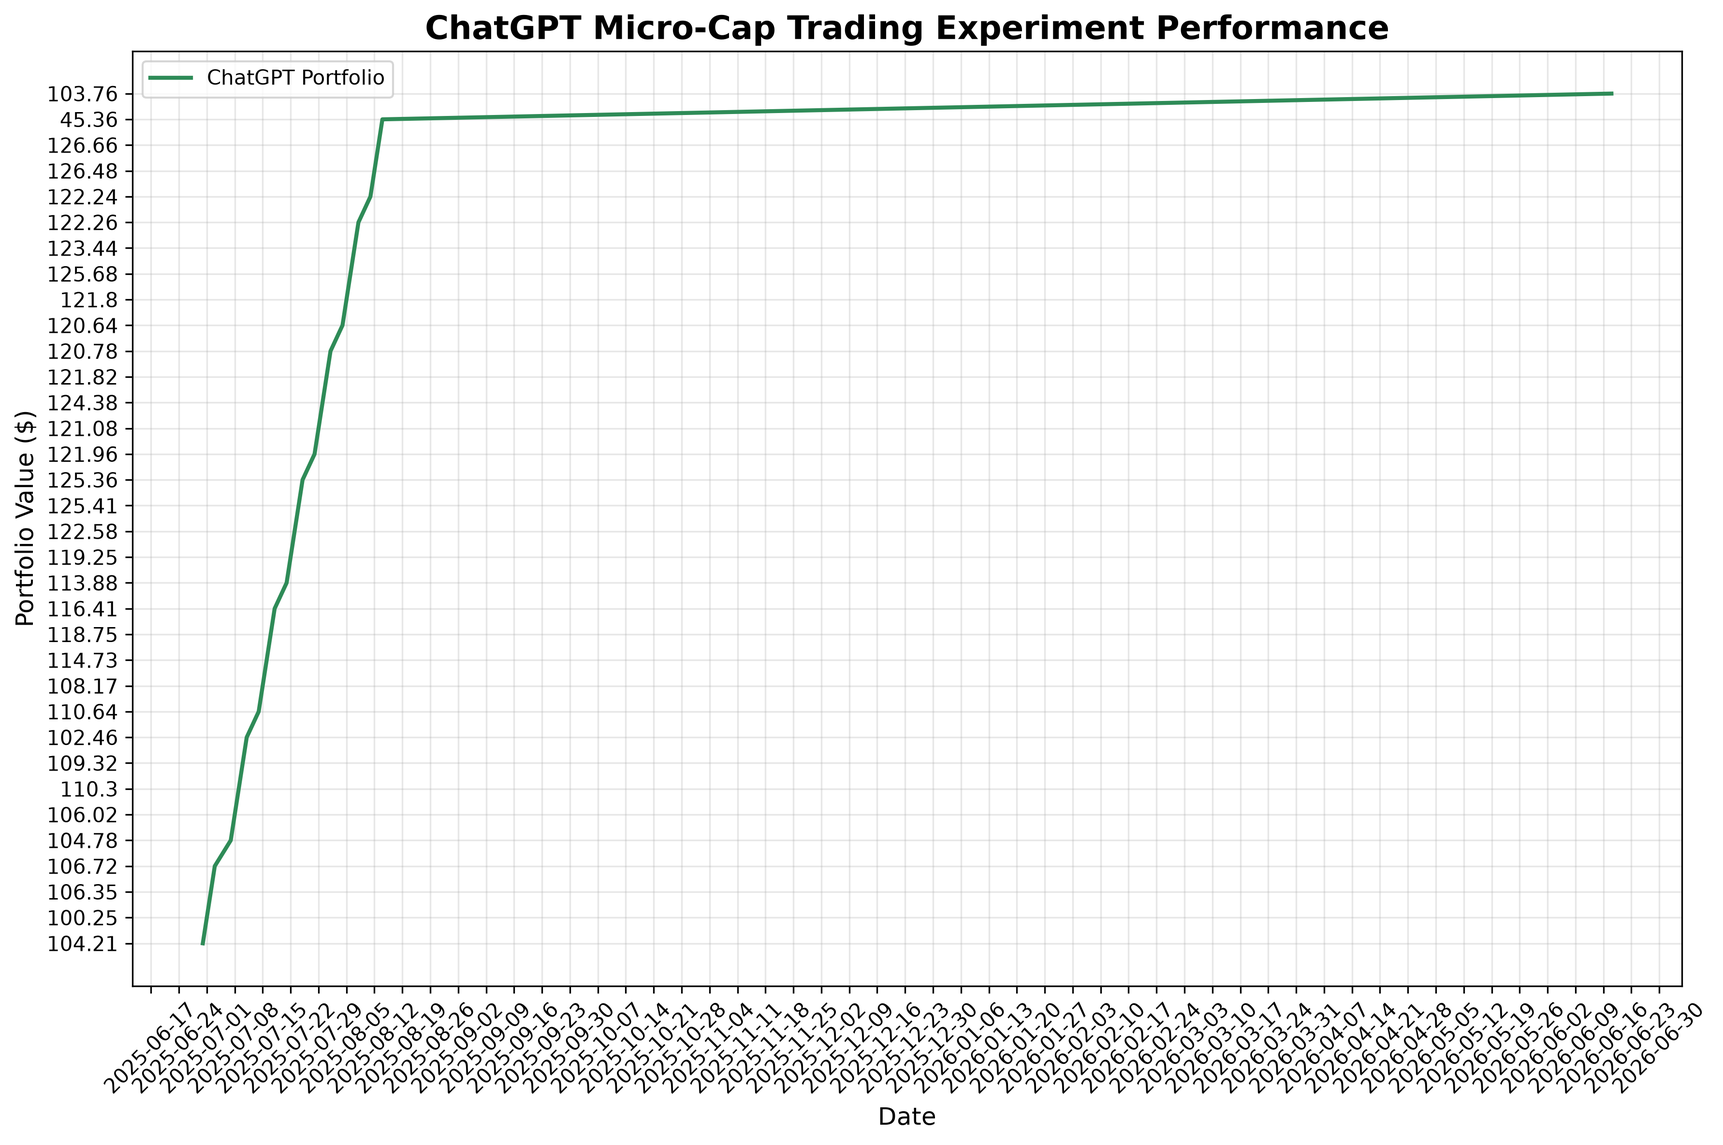
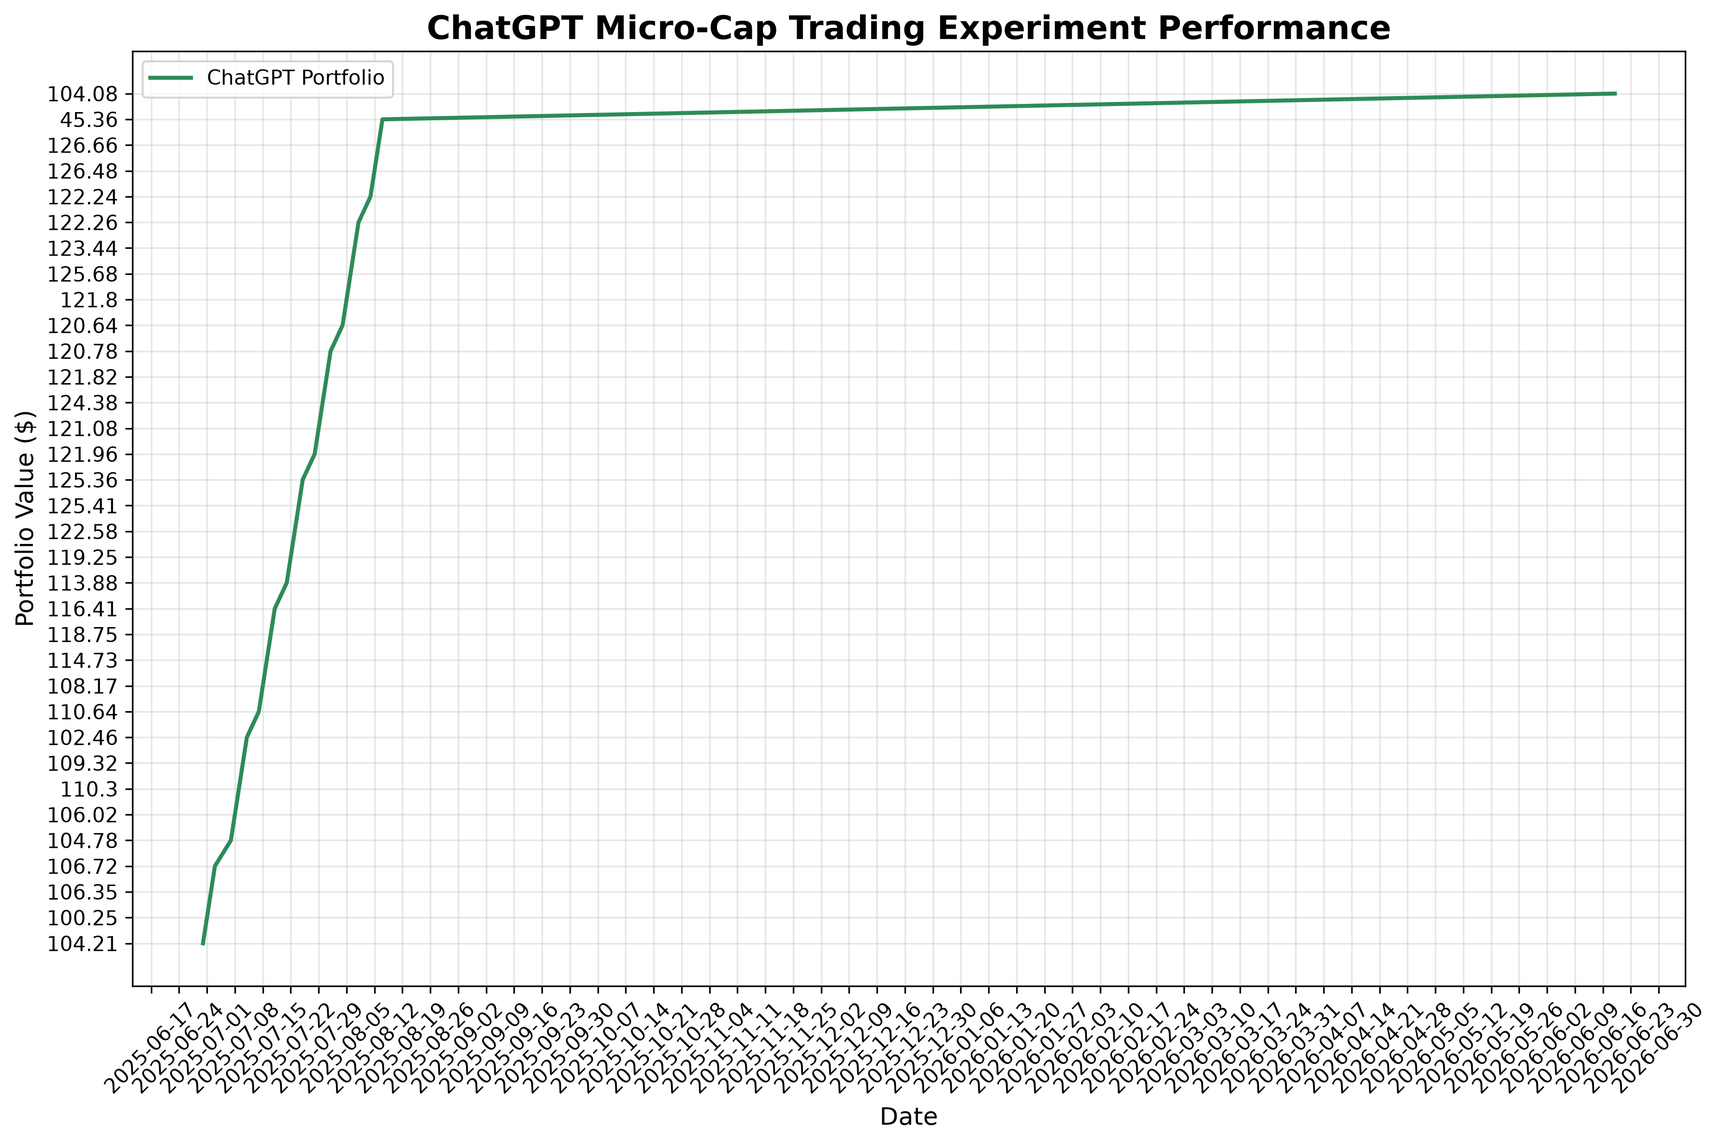
deploy: e15cad030d70fb3fbb51f9df6e22fa70c2f175c0

diff --git a/index.html b/index.html
@@ -105,7 +105,7 @@
                 <div class="stat-label">Total Trades</div>
             </div>
             <div class="stat-card">
-                <div class="stat-value" id="last-updated">2026-06-18</div>
+                <div class="stat-value" id="last-updated">2026-06-19</div>
                 <div class="stat-label">Last Updated</div>
             </div>
         </div>
@@ -160,8 +160,8 @@
     
     <script>
         // Portfolio data
-        const portfolioData = JSON.parse("[{&quot;Date&quot;: &quot;2025-08-11&quot;, &quot;Ticker&quot;: &quot;ABEO&quot;, &quot;Shares&quot;: 4.0, &quot;Buy Price&quot;: 5.77, &quot;Cost Basis&quot;: 23.08, &quot;Stop Loss&quot;: 4.9, &quot;Current Price&quot;: 6.28, &quot;Total Value&quot;: 25.12, &quot;PnL&quot;: 2.04, &quot;Action&quot;: &quot;HOLD&quot;, &quot;Cash Balance&quot;: NaN, &quot;Total Equity&quot;: NaN}, {&quot;Date&quot;: &quot;2025-08-11&quot;, &quot;Ticker&quot;: &quot;ACTU&quot;, &quot;Shares&quot;: 6.0, &quot;Buy Price&quot;: 5.75, &quot;Cost Basis&quot;: 34.5, &quot;Stop Loss&quot;: 4.89, &quot;Current Price&quot;: 8.01, &quot;Total Value&quot;: 48.06, &quot;PnL&quot;: 13.56, &quot;Action&quot;: &quot;HOLD&quot;, &quot;Cash Balance&quot;: NaN, &quot;Total Equity&quot;: NaN}, {&quot;Date&quot;: &quot;2025-08-11&quot;, &quot;Ticker&quot;: &quot;ESPR&quot;, &quot;Shares&quot;: 2.0, &quot;Buy Price&quot;: 1.91, &quot;Cost Basis&quot;: 3.82, &quot;Stop Loss&quot;: 1.6, &quot;Current Price&quot;: 1.85, &quot;Total Value&quot;: 3.7, &quot;PnL&quot;: -0.12, &quot;Action&quot;: &quot;HOLD&quot;, &quot;Cash Balance&quot;: NaN, &quot;Total Equity&quot;: NaN}, {&quot;Date&quot;: &quot;2025-08-11&quot;, &quot;Ticker&quot;: &quot;TOTAL&quot;, &quot;Shares&quot;: NaN, &quot;Buy Price&quot;: NaN, &quot;Cost Basis&quot;: NaN, &quot;Stop Loss&quot;: NaN, &quot;Current Price&quot;: NaN, &quot;Total Value&quot;: 76.88, &quot;PnL&quot;: 15.48, &quot;Action&quot;: NaN, &quot;Cash Balance&quot;: 45.36, &quot;Total Equity&quot;: &quot;122.24&quot;}, {&quot;Date&quot;: &quot;2025-08-12&quot;, &quot;Ticker&quot;: &quot;ABEO&quot;, &quot;Shares&quot;: 4.0, &quot;Buy Price&quot;: 5.77, &quot;Cost Basis&quot;: 23.08, &quot;Stop Loss&quot;: 4.9, &quot;Current Price&quot;: 6.38, &quot;Total Value&quot;: 25.52, &quot;PnL&quot;: 2.44, &quot;Action&quot;: &quot;HOLD&quot;, &quot;Cash Balance&quot;: NaN, &quot;Total Equity&quot;: NaN}, {&quot;Date&quot;: &quot;2025-08-12&quot;, &quot;Ticker&quot;: &quot;ACTU&quot;, &quot;Shares&quot;: 6.0, &quot;Buy Price&quot;: 5.75, &quot;Cost Basis&quot;: 34.5, &quot;Stop Loss&quot;: 4.89, &quot;Current Price&quot;: 8.67, &quot;Total Value&quot;: 52.02, &quot;PnL&quot;: 17.52, &quot;Action&quot;: &quot;HOLD&quot;, &quot;Cash Balance&quot;: NaN, &quot;Total Equity&quot;: NaN}, {&quot;Date&quot;: &quot;2025-08-12&quot;, &quot;Ticker&quot;: &quot;ESPR&quot;, &quot;Shares&quot;: 2.0, &quot;Buy Price&quot;: 1.91, &quot;Cost Basis&quot;: 3.82, &quot;Stop Loss&quot;: 1.6, &quot;Current Price&quot;: 1.79, &quot;Total Value&quot;: 3.58, &quot;PnL&quot;: -0.24, &quot;Action&quot;: &quot;HOLD&quot;, &quot;Cash Balance&quot;: NaN, &quot;Total Equity&quot;: NaN}, {&quot;Date&quot;: &quot;2025-08-12&quot;, &quot;Ticker&quot;: &quot;TOTAL&quot;, &quot;Shares&quot;: NaN, &quot;Buy Price&quot;: NaN, &quot;Cost Basis&quot;: NaN, &quot;Stop Loss&quot;: NaN, &quot;Current Price&quot;: NaN, &quot;Total Value&quot;: 81.12, &quot;PnL&quot;: 19.72, &quot;Action&quot;: NaN, &quot;Cash Balance&quot;: 45.36, &quot;Total Equity&quot;: &quot;126.48&quot;}, {&quot;Date&quot;: &quot;2025-08-13&quot;, &quot;Ticker&quot;: &quot;ABEO&quot;, &quot;Shares&quot;: 4.0, &quot;Buy Price&quot;: 5.77, &quot;Cost Basis&quot;: 23.08, &quot;Stop Loss&quot;: 4.9, &quot;Current Price&quot;: 6.56, &quot;Total Value&quot;: 26.24, &quot;PnL&quot;: 3.16, &quot;Action&quot;: &quot;HOLD&quot;, &quot;Cash Balance&quot;: NaN, &quot;Total Equity&quot;: NaN}, {&quot;Date&quot;: &quot;2025-08-13&quot;, &quot;Ticker&quot;: &quot;ACTU&quot;, &quot;Shares&quot;: 6.0, &quot;Buy Price&quot;: 5.75, &quot;Cost Basis&quot;: 34.5, &quot;Stop Loss&quot;: 4.89, &quot;Current Price&quot;: 8.53, &quot;Total Value&quot;: 51.18, &quot;PnL&quot;: 16.68, &quot;Action&quot;: &quot;HOLD&quot;, &quot;Cash Balance&quot;: NaN, &quot;Total Equity&quot;: NaN}, {&quot;Date&quot;: &quot;2025-08-13&quot;, &quot;Ticker&quot;: &quot;ESPR&quot;, &quot;Shares&quot;: 2.0, &quot;Buy Price&quot;: 1.91, &quot;Cost Basis&quot;: 3.82, &quot;Stop Loss&quot;: 1.6, &quot;Current Price&quot;: 1.94, &quot;Total Value&quot;: 3.88, &quot;PnL&quot;: 0.06, &quot;Action&quot;: &quot;HOLD&quot;, &quot;Cash Balance&quot;: NaN, &quot;Total Equity&quot;: NaN}, {&quot;Date&quot;: &quot;2025-08-13&quot;, &quot;Ticker&quot;: &quot;TOTAL&quot;, &quot;Shares&quot;: NaN, &quot;Buy Price&quot;: NaN, &quot;Cost Basis&quot;: NaN, &quot;Stop Loss&quot;: NaN, &quot;Current Price&quot;: NaN, &quot;Total Value&quot;: 81.3, &quot;PnL&quot;: 19.9, &quot;Action&quot;: NaN, &quot;Cash Balance&quot;: 45.36, &quot;Total Equity&quot;: &quot;126.66&quot;}, {&quot;Date&quot;: &quot;2025-08-14&quot;, &quot;Ticker&quot;: &quot;ABEO&quot;, &quot;Shares&quot;: 4.0, &quot;Buy Price&quot;: 5.77, &quot;Cost Basis&quot;: 23.08, &quot;Stop Loss&quot;: 4.9, &quot;Current Price&quot;: NaN, &quot;Total Value&quot;: NaN, &quot;PnL&quot;: NaN, &quot;Action&quot;: &quot;NO DATA&quot;, &quot;Cash Balance&quot;: NaN, &quot;Total Equity&quot;: NaN}, {&quot;Date&quot;: &quot;2025-08-14&quot;, &quot;Ticker&quot;: &quot;ACTU&quot;, &quot;Shares&quot;: 6.0, &quot;Buy Price&quot;: 5.75, &quot;Cost Basis&quot;: 34.5, &quot;Stop Loss&quot;: 4.89, &quot;Current Price&quot;: NaN, &quot;Total Value&quot;: NaN, &quot;PnL&quot;: NaN, &quot;Action&quot;: &quot;NO DATA&quot;, &quot;Cash Balance&quot;: NaN, &quot;Total Equity&quot;: NaN}, {&quot;Date&quot;: &quot;2025-08-14&quot;, &quot;Ticker&quot;: &quot;ESPR&quot;, &quot;Shares&quot;: 2.0, &quot;Buy Price&quot;: 1.91, &quot;Cost Basis&quot;: 3.82, &quot;Stop Loss&quot;: 1.6, &quot;Current Price&quot;: NaN, &quot;Total Value&quot;: NaN, &quot;PnL&quot;: NaN, &quot;Action&quot;: &quot;NO DATA&quot;, &quot;Cash Balance&quot;: NaN, &quot;Total Equity&quot;: NaN}, {&quot;Date&quot;: &quot;2025-08-14&quot;, &quot;Ticker&quot;: &quot;TOTAL&quot;, &quot;Shares&quot;: NaN, &quot;Buy Price&quot;: NaN, &quot;Cost Basis&quot;: NaN, &quot;Stop Loss&quot;: NaN, &quot;Current Price&quot;: NaN, &quot;Total Value&quot;: 0.0, &quot;PnL&quot;: 0.0, &quot;Action&quot;: NaN, &quot;Cash Balance&quot;: 45.36, &quot;Total Equity&quot;: &quot;45.36&quot;}, {&quot;Date&quot;: &quot;2026-06-18&quot;, &quot;Ticker&quot;: &quot;ABEO&quot;, &quot;Shares&quot;: 4.0, &quot;Buy Price&quot;: 5.77, &quot;Cost Basis&quot;: 23.08, &quot;Stop Loss&quot;: 4.9, &quot;Current Price&quot;: 5.68, &quot;Total Value&quot;: 22.72, &quot;PnL&quot;: -0.36, &quot;Action&quot;: &quot;HOLD&quot;, &quot;Cash Balance&quot;: NaN, &quot;Total Equity&quot;: NaN}, {&quot;Date&quot;: &quot;2026-06-18&quot;, &quot;Ticker&quot;: &quot;ACTU&quot;, &quot;Shares&quot;: 6.0, &quot;Buy Price&quot;: 5.75, &quot;Cost Basis&quot;: 34.5, &quot;Stop Loss&quot;: 4.89, &quot;Current Price&quot;: 4.89, &quot;Total Value&quot;: 29.34, &quot;PnL&quot;: -5.16, &quot;Action&quot;: &quot;SELL - Stop Loss Triggered&quot;, &quot;Cash Balance&quot;: NaN, &quot;Total Equity&quot;: NaN}, {&quot;Date&quot;: &quot;2026-06-18&quot;, &quot;Ticker&quot;: &quot;ESPR&quot;, &quot;Shares&quot;: 2.0, &quot;Buy Price&quot;: 1.91, &quot;Cost Basis&quot;: 3.82, &quot;Stop Loss&quot;: 1.6, &quot;Current Price&quot;: 3.17, &quot;Total Value&quot;: 6.34, &quot;PnL&quot;: 2.52, &quot;Action&quot;: &quot;HOLD&quot;, &quot;Cash Balance&quot;: NaN, &quot;Total Equity&quot;: NaN}, {&quot;Date&quot;: &quot;2026-06-18&quot;, &quot;Ticker&quot;: &quot;TOTAL&quot;, &quot;Shares&quot;: NaN, &quot;Buy Price&quot;: NaN, &quot;Cost Basis&quot;: NaN, &quot;Stop Loss&quot;: NaN, &quot;Current Price&quot;: NaN, &quot;Total Value&quot;: 29.06, &quot;PnL&quot;: 2.16, &quot;Action&quot;: NaN, &quot;Cash Balance&quot;: 74.7, &quot;Total Equity&quot;: &quot;103.76&quot;}]");
-        const tradeData = JSON.parse("[{&quot;Date&quot;: &quot;2025-07-08&quot;, &quot;Ticker&quot;: &quot;IINN&quot;, &quot;Shares Bought&quot;: 20.0, &quot;Buy Price&quot;: 1.5, &quot;Cost Basis&quot;: 30.0, &quot;PnL&quot;: 0.0, &quot;Reason&quot;: &quot;MANUAL BUY - New position&quot;, &quot;Shares Sold&quot;: NaN, &quot;Sell Price&quot;: NaN}, {&quot;Date&quot;: &quot;2025-07-21&quot;, &quot;Ticker&quot;: &quot;CADL&quot;, &quot;Shares Bought&quot;: NaN, &quot;Buy Price&quot;: NaN, &quot;Cost Basis&quot;: 25.2, &quot;PnL&quot;: 8.5, &quot;Reason&quot;: &quot;MANUAL SELL - GAIN CAPITAL FOR ACTU&quot;, &quot;Shares Sold&quot;: 5.0, &quot;Sell Price&quot;: 6.59}, {&quot;Date&quot;: &quot;2025-07-21&quot;, &quot;Ticker&quot;: &quot;ACTU&quot;, &quot;Shares Bought&quot;: 6.0, &quot;Buy Price&quot;: 5.75, &quot;Cost Basis&quot;: 34.5, &quot;PnL&quot;: 0.0, &quot;Reason&quot;: &quot;MANUAL BUY - New position&quot;, &quot;Shares Sold&quot;: NaN, &quot;Sell Price&quot;: NaN}, {&quot;Date&quot;: &quot;2025-07-28&quot;, &quot;Ticker&quot;: &quot;IINN&quot;, &quot;Shares Bought&quot;: NaN, &quot;Buy Price&quot;: NaN, &quot;Cost Basis&quot;: 9.0, &quot;PnL&quot;: -0.5400000000000009, &quot;Reason&quot;: &quot;MANUAL SELL - POSITION REDUCTION&quot;, &quot;Shares Sold&quot;: 6.0, &quot;Sell Price&quot;: 1.41}, {&quot;Date&quot;: &quot;2025-07-29&quot;, &quot;Ticker&quot;: &quot;AZTR&quot;, &quot;Shares Bought&quot;: NaN, &quot;Buy Price&quot;: NaN, &quot;Cost Basis&quot;: 13.75, &quot;PnL&quot;: -2.75, &quot;Reason&quot;: &quot;MANUAL SELL - DILUTION RISK&quot;, &quot;Shares Sold&quot;: 55.0, &quot;Sell Price&quot;: 0.2}, {&quot;Date&quot;: &quot;2025-08-01&quot;, &quot;Ticker&quot;: &quot;IINN&quot;, &quot;Shares Bought&quot;: 2.0, &quot;Buy Price&quot;: 1.74, &quot;Cost Basis&quot;: 3.48, &quot;PnL&quot;: 0.0, &quot;Reason&quot;: &quot;MANUAL BUY - New position&quot;, &quot;Shares Sold&quot;: NaN, &quot;Sell Price&quot;: NaN}, {&quot;Date&quot;: &quot;2025-08-01&quot;, &quot;Ticker&quot;: &quot;ABEO&quot;, &quot;Shares Bought&quot;: NaN, &quot;Buy Price&quot;: NaN, &quot;Cost Basis&quot;: 11.54, &quot;PnL&quot;: 1.200000000000001, &quot;Reason&quot;: &quot;MANUAL SELL - TRIM AFTER SUPPORT LOSS&quot;, &quot;Shares Sold&quot;: 2.0, &quot;Sell Price&quot;: 6.37}, {&quot;Date&quot;: &quot;2025-08-07&quot;, &quot;Ticker&quot;: &quot;ESPR&quot;, &quot;Shares Bought&quot;: 2.0, &quot;Buy Price&quot;: 1.91, &quot;Cost Basis&quot;: 3.82, &quot;PnL&quot;: 0.0, &quot;Reason&quot;: &quot;MANUAL BUY - New position&quot;, &quot;Shares Sold&quot;: NaN, &quot;Sell Price&quot;: NaN}, {&quot;Date&quot;: &quot;2025-08-08&quot;, &quot;Ticker&quot;: &quot;IINN&quot;, &quot;Shares Bought&quot;: NaN, &quot;Buy Price&quot;: NaN, &quot;Cost Basis&quot;: 1.5, &quot;PnL&quot;: -6.4, &quot;Reason&quot;: &quot;AUTOMATED SELL - STOPLOSS TRIGGERED&quot;, &quot;Shares Sold&quot;: 16.0, &quot;Sell Price&quot;: 1.1}, {&quot;Date&quot;: &quot;2026-06-18&quot;, &quot;Ticker&quot;: &quot;ACTU&quot;, &quot;Shares Bought&quot;: NaN, &quot;Buy Price&quot;: NaN, &quot;Cost Basis&quot;: 5.75, &quot;PnL&quot;: -5.16, &quot;Reason&quot;: &quot;AUTOMATED SELL - STOPLOSS TRIGGERED&quot;, &quot;Shares Sold&quot;: 6.0, &quot;Sell Price&quot;: 4.89}]");
+        const portfolioData = JSON.parse("[{&quot;Date&quot;: &quot;2025-08-11&quot;, &quot;Ticker&quot;: &quot;ABEO&quot;, &quot;Shares&quot;: 4.0, &quot;Buy Price&quot;: 5.77, &quot;Cost Basis&quot;: 23.08, &quot;Stop Loss&quot;: 4.9, &quot;Current Price&quot;: 6.28, &quot;Total Value&quot;: 25.12, &quot;PnL&quot;: 2.04, &quot;Action&quot;: &quot;HOLD&quot;, &quot;Cash Balance&quot;: NaN, &quot;Total Equity&quot;: NaN}, {&quot;Date&quot;: &quot;2025-08-11&quot;, &quot;Ticker&quot;: &quot;ACTU&quot;, &quot;Shares&quot;: 6.0, &quot;Buy Price&quot;: 5.75, &quot;Cost Basis&quot;: 34.5, &quot;Stop Loss&quot;: 4.89, &quot;Current Price&quot;: 8.01, &quot;Total Value&quot;: 48.06, &quot;PnL&quot;: 13.56, &quot;Action&quot;: &quot;HOLD&quot;, &quot;Cash Balance&quot;: NaN, &quot;Total Equity&quot;: NaN}, {&quot;Date&quot;: &quot;2025-08-11&quot;, &quot;Ticker&quot;: &quot;ESPR&quot;, &quot;Shares&quot;: 2.0, &quot;Buy Price&quot;: 1.91, &quot;Cost Basis&quot;: 3.82, &quot;Stop Loss&quot;: 1.6, &quot;Current Price&quot;: 1.85, &quot;Total Value&quot;: 3.7, &quot;PnL&quot;: -0.12, &quot;Action&quot;: &quot;HOLD&quot;, &quot;Cash Balance&quot;: NaN, &quot;Total Equity&quot;: NaN}, {&quot;Date&quot;: &quot;2025-08-11&quot;, &quot;Ticker&quot;: &quot;TOTAL&quot;, &quot;Shares&quot;: NaN, &quot;Buy Price&quot;: NaN, &quot;Cost Basis&quot;: NaN, &quot;Stop Loss&quot;: NaN, &quot;Current Price&quot;: NaN, &quot;Total Value&quot;: 76.88, &quot;PnL&quot;: 15.48, &quot;Action&quot;: NaN, &quot;Cash Balance&quot;: 45.36, &quot;Total Equity&quot;: &quot;122.24&quot;}, {&quot;Date&quot;: &quot;2025-08-12&quot;, &quot;Ticker&quot;: &quot;ABEO&quot;, &quot;Shares&quot;: 4.0, &quot;Buy Price&quot;: 5.77, &quot;Cost Basis&quot;: 23.08, &quot;Stop Loss&quot;: 4.9, &quot;Current Price&quot;: 6.38, &quot;Total Value&quot;: 25.52, &quot;PnL&quot;: 2.44, &quot;Action&quot;: &quot;HOLD&quot;, &quot;Cash Balance&quot;: NaN, &quot;Total Equity&quot;: NaN}, {&quot;Date&quot;: &quot;2025-08-12&quot;, &quot;Ticker&quot;: &quot;ACTU&quot;, &quot;Shares&quot;: 6.0, &quot;Buy Price&quot;: 5.75, &quot;Cost Basis&quot;: 34.5, &quot;Stop Loss&quot;: 4.89, &quot;Current Price&quot;: 8.67, &quot;Total Value&quot;: 52.02, &quot;PnL&quot;: 17.52, &quot;Action&quot;: &quot;HOLD&quot;, &quot;Cash Balance&quot;: NaN, &quot;Total Equity&quot;: NaN}, {&quot;Date&quot;: &quot;2025-08-12&quot;, &quot;Ticker&quot;: &quot;ESPR&quot;, &quot;Shares&quot;: 2.0, &quot;Buy Price&quot;: 1.91, &quot;Cost Basis&quot;: 3.82, &quot;Stop Loss&quot;: 1.6, &quot;Current Price&quot;: 1.79, &quot;Total Value&quot;: 3.58, &quot;PnL&quot;: -0.24, &quot;Action&quot;: &quot;HOLD&quot;, &quot;Cash Balance&quot;: NaN, &quot;Total Equity&quot;: NaN}, {&quot;Date&quot;: &quot;2025-08-12&quot;, &quot;Ticker&quot;: &quot;TOTAL&quot;, &quot;Shares&quot;: NaN, &quot;Buy Price&quot;: NaN, &quot;Cost Basis&quot;: NaN, &quot;Stop Loss&quot;: NaN, &quot;Current Price&quot;: NaN, &quot;Total Value&quot;: 81.12, &quot;PnL&quot;: 19.72, &quot;Action&quot;: NaN, &quot;Cash Balance&quot;: 45.36, &quot;Total Equity&quot;: &quot;126.48&quot;}, {&quot;Date&quot;: &quot;2025-08-13&quot;, &quot;Ticker&quot;: &quot;ABEO&quot;, &quot;Shares&quot;: 4.0, &quot;Buy Price&quot;: 5.77, &quot;Cost Basis&quot;: 23.08, &quot;Stop Loss&quot;: 4.9, &quot;Current Price&quot;: 6.56, &quot;Total Value&quot;: 26.24, &quot;PnL&quot;: 3.16, &quot;Action&quot;: &quot;HOLD&quot;, &quot;Cash Balance&quot;: NaN, &quot;Total Equity&quot;: NaN}, {&quot;Date&quot;: &quot;2025-08-13&quot;, &quot;Ticker&quot;: &quot;ACTU&quot;, &quot;Shares&quot;: 6.0, &quot;Buy Price&quot;: 5.75, &quot;Cost Basis&quot;: 34.5, &quot;Stop Loss&quot;: 4.89, &quot;Current Price&quot;: 8.53, &quot;Total Value&quot;: 51.18, &quot;PnL&quot;: 16.68, &quot;Action&quot;: &quot;HOLD&quot;, &quot;Cash Balance&quot;: NaN, &quot;Total Equity&quot;: NaN}, {&quot;Date&quot;: &quot;2025-08-13&quot;, &quot;Ticker&quot;: &quot;ESPR&quot;, &quot;Shares&quot;: 2.0, &quot;Buy Price&quot;: 1.91, &quot;Cost Basis&quot;: 3.82, &quot;Stop Loss&quot;: 1.6, &quot;Current Price&quot;: 1.94, &quot;Total Value&quot;: 3.88, &quot;PnL&quot;: 0.06, &quot;Action&quot;: &quot;HOLD&quot;, &quot;Cash Balance&quot;: NaN, &quot;Total Equity&quot;: NaN}, {&quot;Date&quot;: &quot;2025-08-13&quot;, &quot;Ticker&quot;: &quot;TOTAL&quot;, &quot;Shares&quot;: NaN, &quot;Buy Price&quot;: NaN, &quot;Cost Basis&quot;: NaN, &quot;Stop Loss&quot;: NaN, &quot;Current Price&quot;: NaN, &quot;Total Value&quot;: 81.3, &quot;PnL&quot;: 19.9, &quot;Action&quot;: NaN, &quot;Cash Balance&quot;: 45.36, &quot;Total Equity&quot;: &quot;126.66&quot;}, {&quot;Date&quot;: &quot;2025-08-14&quot;, &quot;Ticker&quot;: &quot;ABEO&quot;, &quot;Shares&quot;: 4.0, &quot;Buy Price&quot;: 5.77, &quot;Cost Basis&quot;: 23.08, &quot;Stop Loss&quot;: 4.9, &quot;Current Price&quot;: NaN, &quot;Total Value&quot;: NaN, &quot;PnL&quot;: NaN, &quot;Action&quot;: &quot;NO DATA&quot;, &quot;Cash Balance&quot;: NaN, &quot;Total Equity&quot;: NaN}, {&quot;Date&quot;: &quot;2025-08-14&quot;, &quot;Ticker&quot;: &quot;ACTU&quot;, &quot;Shares&quot;: 6.0, &quot;Buy Price&quot;: 5.75, &quot;Cost Basis&quot;: 34.5, &quot;Stop Loss&quot;: 4.89, &quot;Current Price&quot;: NaN, &quot;Total Value&quot;: NaN, &quot;PnL&quot;: NaN, &quot;Action&quot;: &quot;NO DATA&quot;, &quot;Cash Balance&quot;: NaN, &quot;Total Equity&quot;: NaN}, {&quot;Date&quot;: &quot;2025-08-14&quot;, &quot;Ticker&quot;: &quot;ESPR&quot;, &quot;Shares&quot;: 2.0, &quot;Buy Price&quot;: 1.91, &quot;Cost Basis&quot;: 3.82, &quot;Stop Loss&quot;: 1.6, &quot;Current Price&quot;: NaN, &quot;Total Value&quot;: NaN, &quot;PnL&quot;: NaN, &quot;Action&quot;: &quot;NO DATA&quot;, &quot;Cash Balance&quot;: NaN, &quot;Total Equity&quot;: NaN}, {&quot;Date&quot;: &quot;2025-08-14&quot;, &quot;Ticker&quot;: &quot;TOTAL&quot;, &quot;Shares&quot;: NaN, &quot;Buy Price&quot;: NaN, &quot;Cost Basis&quot;: NaN, &quot;Stop Loss&quot;: NaN, &quot;Current Price&quot;: NaN, &quot;Total Value&quot;: 0.0, &quot;PnL&quot;: 0.0, &quot;Action&quot;: NaN, &quot;Cash Balance&quot;: 45.36, &quot;Total Equity&quot;: &quot;45.36&quot;}, {&quot;Date&quot;: &quot;2026-06-19&quot;, &quot;Ticker&quot;: &quot;ABEO&quot;, &quot;Shares&quot;: 4.0, &quot;Buy Price&quot;: 5.77, &quot;Cost Basis&quot;: 23.08, &quot;Stop Loss&quot;: 4.9, &quot;Current Price&quot;: 5.77, &quot;Total Value&quot;: 23.08, &quot;PnL&quot;: 0.0, &quot;Action&quot;: &quot;HOLD&quot;, &quot;Cash Balance&quot;: NaN, &quot;Total Equity&quot;: NaN}, {&quot;Date&quot;: &quot;2026-06-19&quot;, &quot;Ticker&quot;: &quot;ACTU&quot;, &quot;Shares&quot;: 6.0, &quot;Buy Price&quot;: 5.75, &quot;Cost Basis&quot;: 34.5, &quot;Stop Loss&quot;: 4.89, &quot;Current Price&quot;: 4.89, &quot;Total Value&quot;: 29.34, &quot;PnL&quot;: -5.16, &quot;Action&quot;: &quot;SELL - Stop Loss Triggered&quot;, &quot;Cash Balance&quot;: NaN, &quot;Total Equity&quot;: NaN}, {&quot;Date&quot;: &quot;2026-06-19&quot;, &quot;Ticker&quot;: &quot;ESPR&quot;, &quot;Shares&quot;: 2.0, &quot;Buy Price&quot;: 1.91, &quot;Cost Basis&quot;: 3.82, &quot;Stop Loss&quot;: 1.6, &quot;Current Price&quot;: 3.15, &quot;Total Value&quot;: 6.3, &quot;PnL&quot;: 2.48, &quot;Action&quot;: &quot;HOLD&quot;, &quot;Cash Balance&quot;: NaN, &quot;Total Equity&quot;: NaN}, {&quot;Date&quot;: &quot;2026-06-19&quot;, &quot;Ticker&quot;: &quot;TOTAL&quot;, &quot;Shares&quot;: NaN, &quot;Buy Price&quot;: NaN, &quot;Cost Basis&quot;: NaN, &quot;Stop Loss&quot;: NaN, &quot;Current Price&quot;: NaN, &quot;Total Value&quot;: 29.38, &quot;PnL&quot;: 2.48, &quot;Action&quot;: NaN, &quot;Cash Balance&quot;: 74.7, &quot;Total Equity&quot;: &quot;104.08&quot;}]");
+        const tradeData = JSON.parse("[{&quot;Date&quot;: &quot;2025-07-08&quot;, &quot;Ticker&quot;: &quot;IINN&quot;, &quot;Shares Bought&quot;: 20.0, &quot;Buy Price&quot;: 1.5, &quot;Cost Basis&quot;: 30.0, &quot;PnL&quot;: 0.0, &quot;Reason&quot;: &quot;MANUAL BUY - New position&quot;, &quot;Shares Sold&quot;: NaN, &quot;Sell Price&quot;: NaN}, {&quot;Date&quot;: &quot;2025-07-21&quot;, &quot;Ticker&quot;: &quot;CADL&quot;, &quot;Shares Bought&quot;: NaN, &quot;Buy Price&quot;: NaN, &quot;Cost Basis&quot;: 25.2, &quot;PnL&quot;: 8.5, &quot;Reason&quot;: &quot;MANUAL SELL - GAIN CAPITAL FOR ACTU&quot;, &quot;Shares Sold&quot;: 5.0, &quot;Sell Price&quot;: 6.59}, {&quot;Date&quot;: &quot;2025-07-21&quot;, &quot;Ticker&quot;: &quot;ACTU&quot;, &quot;Shares Bought&quot;: 6.0, &quot;Buy Price&quot;: 5.75, &quot;Cost Basis&quot;: 34.5, &quot;PnL&quot;: 0.0, &quot;Reason&quot;: &quot;MANUAL BUY - New position&quot;, &quot;Shares Sold&quot;: NaN, &quot;Sell Price&quot;: NaN}, {&quot;Date&quot;: &quot;2025-07-28&quot;, &quot;Ticker&quot;: &quot;IINN&quot;, &quot;Shares Bought&quot;: NaN, &quot;Buy Price&quot;: NaN, &quot;Cost Basis&quot;: 9.0, &quot;PnL&quot;: -0.5400000000000009, &quot;Reason&quot;: &quot;MANUAL SELL - POSITION REDUCTION&quot;, &quot;Shares Sold&quot;: 6.0, &quot;Sell Price&quot;: 1.41}, {&quot;Date&quot;: &quot;2025-07-29&quot;, &quot;Ticker&quot;: &quot;AZTR&quot;, &quot;Shares Bought&quot;: NaN, &quot;Buy Price&quot;: NaN, &quot;Cost Basis&quot;: 13.75, &quot;PnL&quot;: -2.75, &quot;Reason&quot;: &quot;MANUAL SELL - DILUTION RISK&quot;, &quot;Shares Sold&quot;: 55.0, &quot;Sell Price&quot;: 0.2}, {&quot;Date&quot;: &quot;2025-08-01&quot;, &quot;Ticker&quot;: &quot;IINN&quot;, &quot;Shares Bought&quot;: 2.0, &quot;Buy Price&quot;: 1.74, &quot;Cost Basis&quot;: 3.48, &quot;PnL&quot;: 0.0, &quot;Reason&quot;: &quot;MANUAL BUY - New position&quot;, &quot;Shares Sold&quot;: NaN, &quot;Sell Price&quot;: NaN}, {&quot;Date&quot;: &quot;2025-08-01&quot;, &quot;Ticker&quot;: &quot;ABEO&quot;, &quot;Shares Bought&quot;: NaN, &quot;Buy Price&quot;: NaN, &quot;Cost Basis&quot;: 11.54, &quot;PnL&quot;: 1.200000000000001, &quot;Reason&quot;: &quot;MANUAL SELL - TRIM AFTER SUPPORT LOSS&quot;, &quot;Shares Sold&quot;: 2.0, &quot;Sell Price&quot;: 6.37}, {&quot;Date&quot;: &quot;2025-08-07&quot;, &quot;Ticker&quot;: &quot;ESPR&quot;, &quot;Shares Bought&quot;: 2.0, &quot;Buy Price&quot;: 1.91, &quot;Cost Basis&quot;: 3.82, &quot;PnL&quot;: 0.0, &quot;Reason&quot;: &quot;MANUAL BUY - New position&quot;, &quot;Shares Sold&quot;: NaN, &quot;Sell Price&quot;: NaN}, {&quot;Date&quot;: &quot;2025-08-08&quot;, &quot;Ticker&quot;: &quot;IINN&quot;, &quot;Shares Bought&quot;: NaN, &quot;Buy Price&quot;: NaN, &quot;Cost Basis&quot;: 1.5, &quot;PnL&quot;: -6.4, &quot;Reason&quot;: &quot;AUTOMATED SELL - STOPLOSS TRIGGERED&quot;, &quot;Shares Sold&quot;: 16.0, &quot;Sell Price&quot;: 1.1}, {&quot;Date&quot;: &quot;2026-06-19&quot;, &quot;Ticker&quot;: &quot;ACTU&quot;, &quot;Shares Bought&quot;: NaN, &quot;Buy Price&quot;: NaN, &quot;Cost Basis&quot;: 5.75, &quot;PnL&quot;: -5.16, &quot;Reason&quot;: &quot;AUTOMATED SELL - STOPLOSS TRIGGERED&quot;, &quot;Shares Sold&quot;: 6.0, &quot;Sell Price&quot;: 4.89}]");
         
         // Update total equity
         if (portfolioData.length > 0) {
